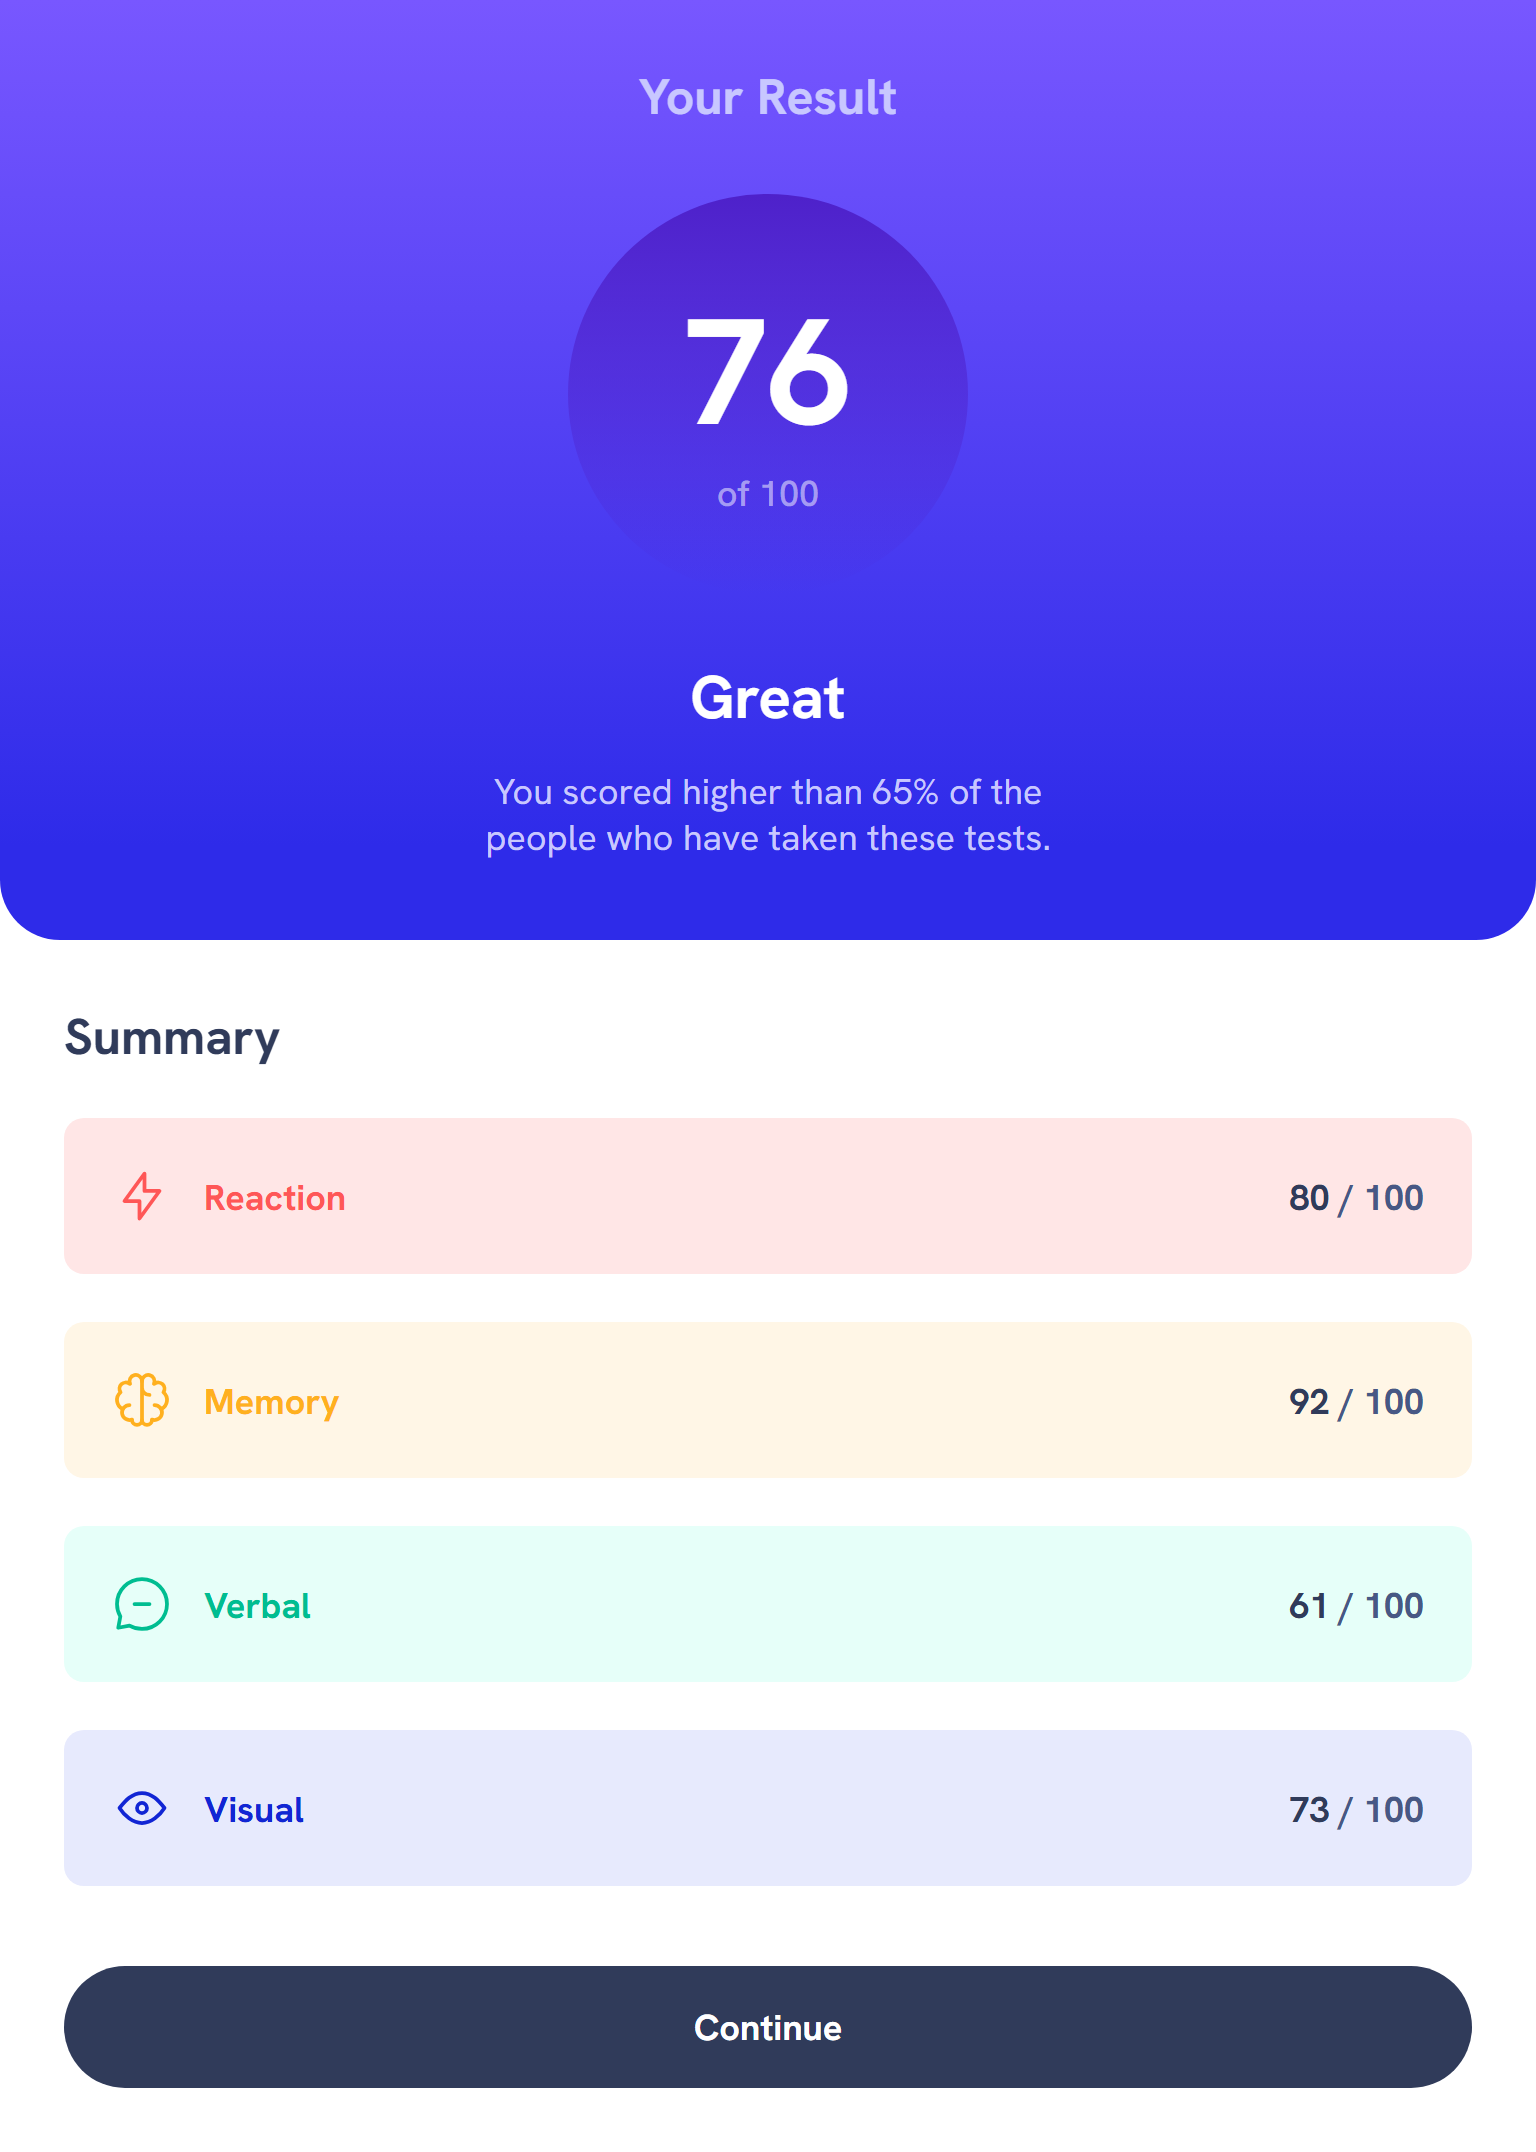
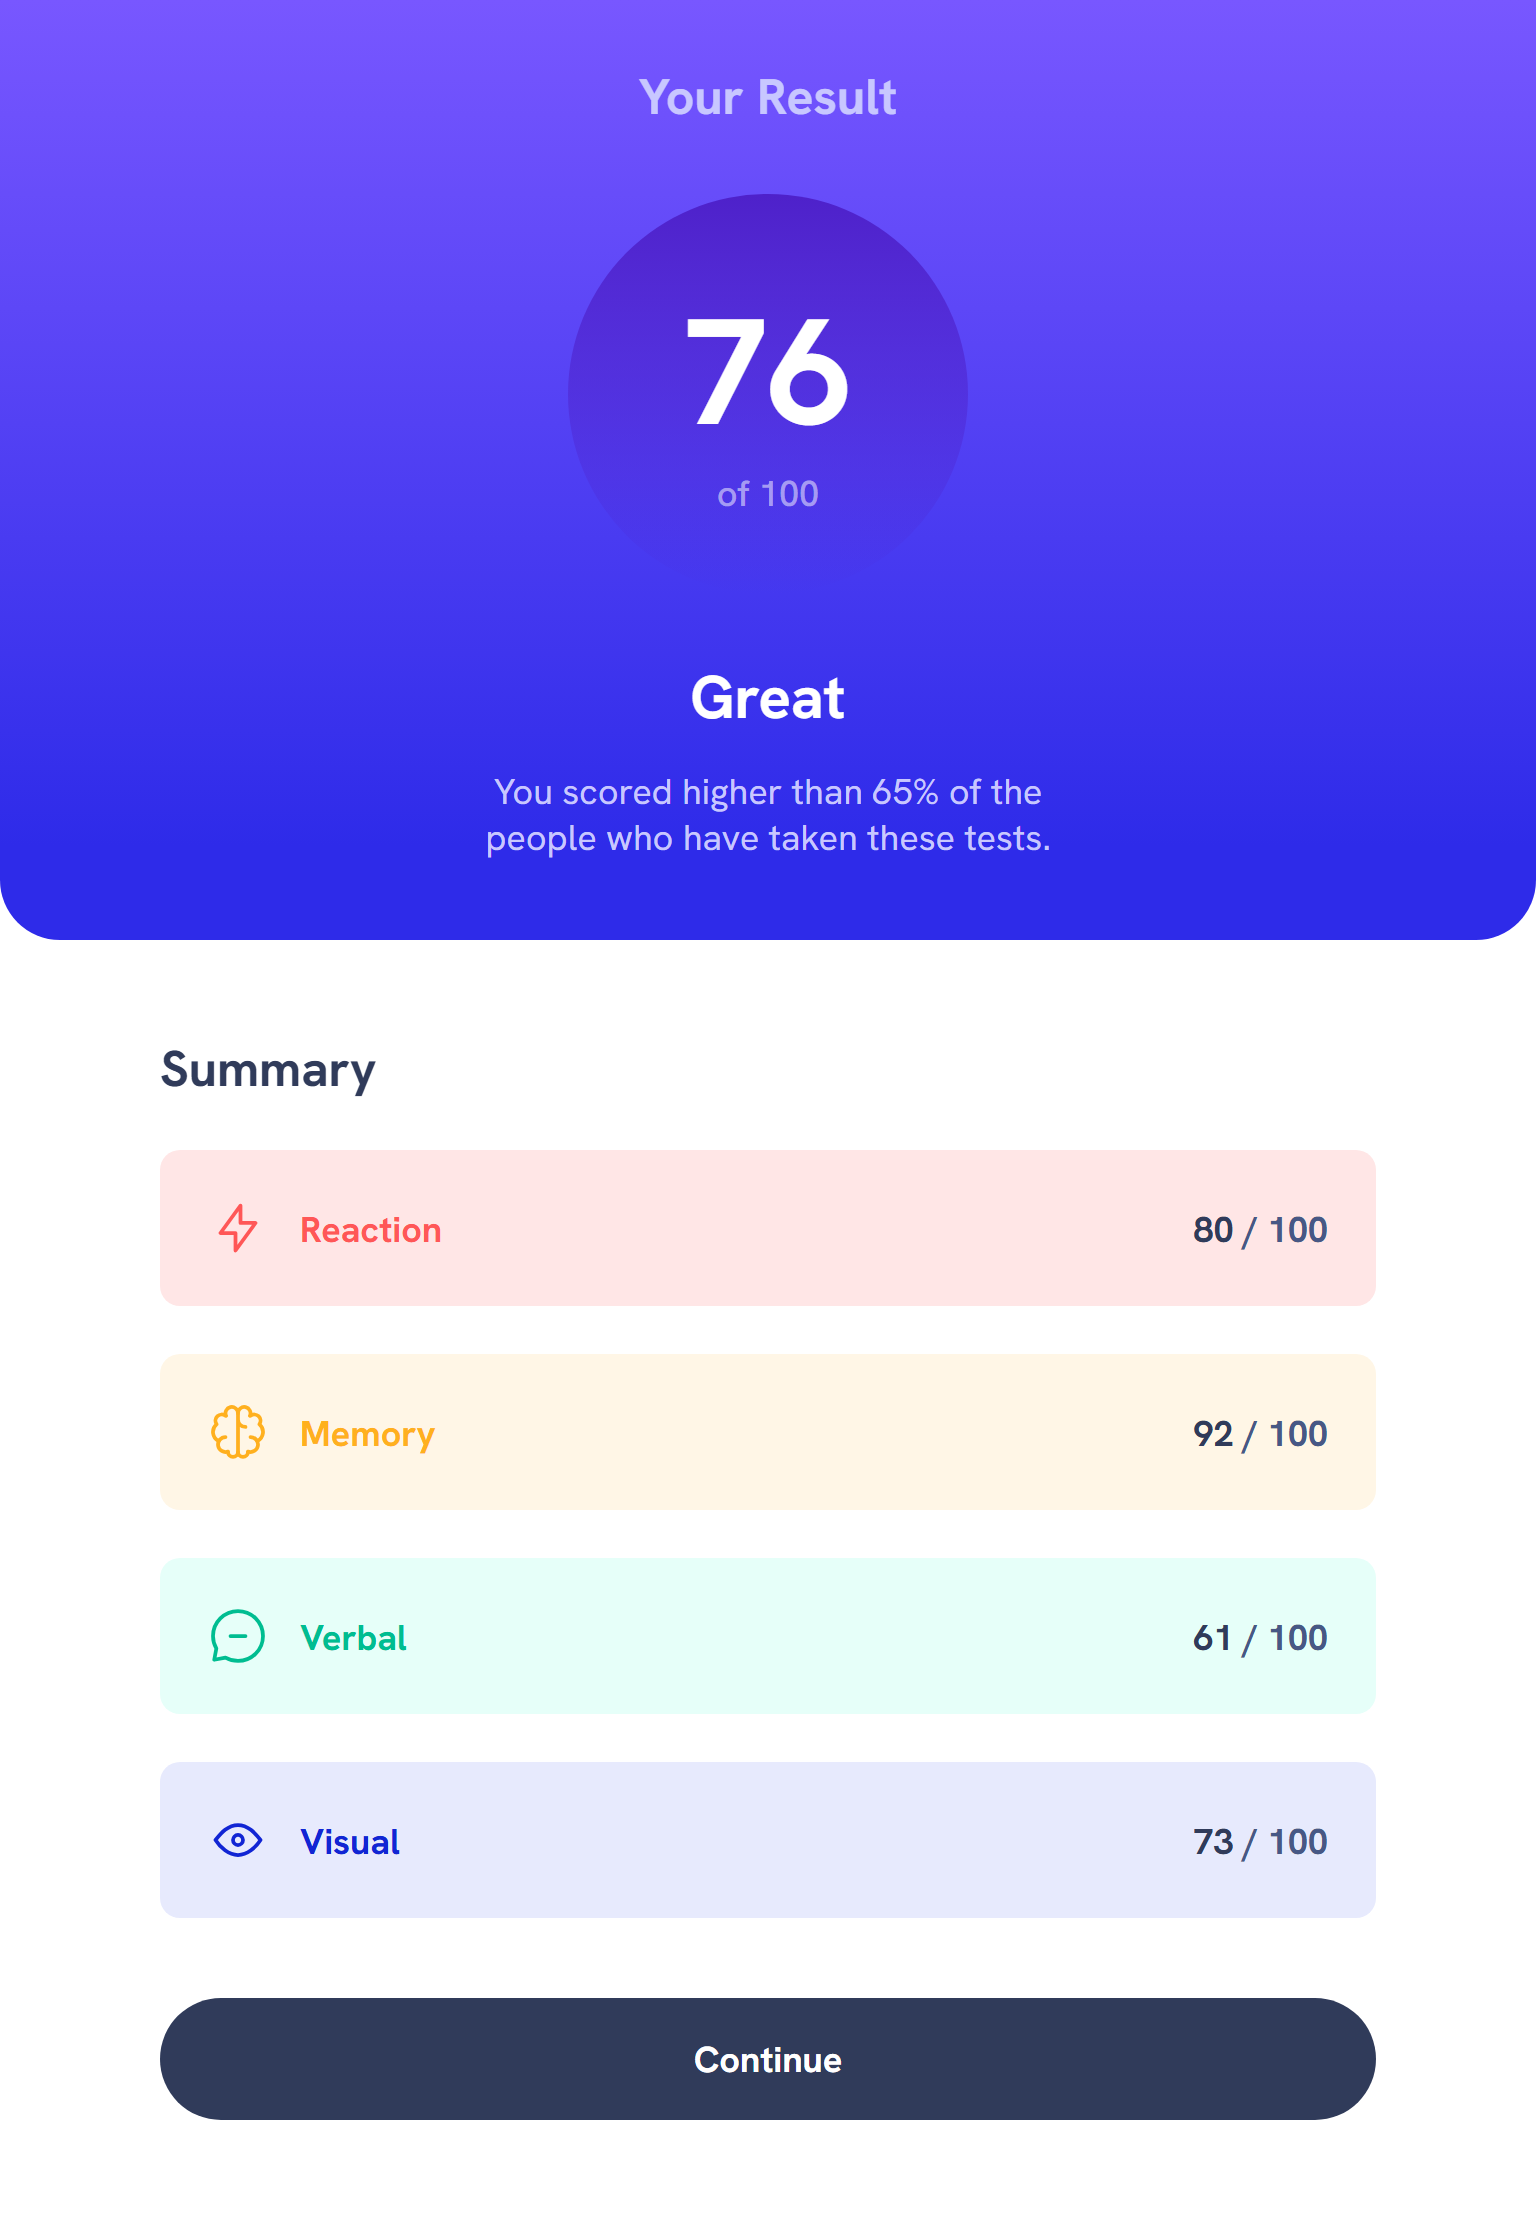
docs: Update README file

diff --git a/README.md b/README.md
@@ -64,7 +64,7 @@ Continue Button:
 
 #### **Unit Tests**
 
-This project uses Jest and React Testing Library for unit and integration testing.
+This project uses Jest and React Testing Library for unit testing.
 
 The unit tests cover:
 
@@ -95,7 +95,7 @@ The unit tests cover:
 - Semantic HTML5 markup
 - CSS custom properties
 - Flexbox
-- CSS Grid
+- Grid
 - Mobile-first workflow
 - [React](https://reactjs.org/) - JS library
 - [Next.js](https://nextjs.org/) - React framework
